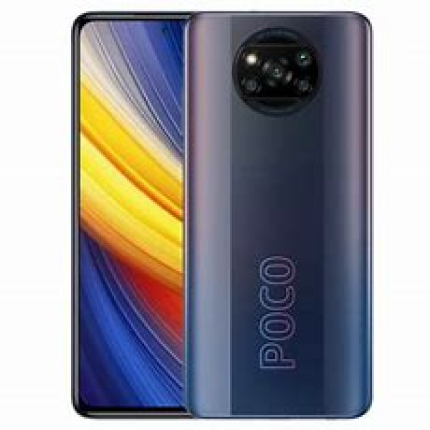
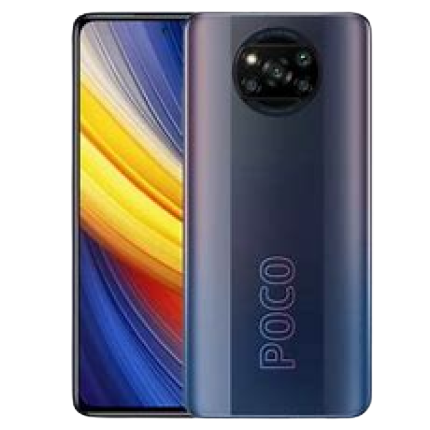
daftar produk

diff --git a/DaftarProduk/produk.html b/DaftarProduk/produk.html
@@ -61,47 +61,47 @@
                     <div class="penawaran-stok">Stok 5</div>
                     <div class="deskripsi">
                         <p>Spesifikasi</p>
-                        <p>Dimensi Tinggi : 165,3mm</p>
-                        <p>Lebar : 78,8 mm Ketebalan : 9,4 mm</p>
-                        <p>Berat : 215 g</p>
+                        <p>Qualcomm Snapdragon 860</p>
+                        <p>RAM : 8 GB</p>
+                        <p>Battery : 5160mAH</p>
                     </div>
                 </div>
             </div>
             <div class="penawaran-list">
-                <img src="../ImageBank/rexus.png" alt="" class="penawaran-image">
+                <img src="../ImageBank/realmext.png" alt="" class="penawaran-image">
                 <div class="penawaran-desc">
-                    <div class="penawaran-product">Rexus Daxa TS1</div>
-                    <div class="penawaran-kategori">Audio</div>
-                    <div class="penawaran-harga">Rp790.000</div>
+                    <div class="penawaran-product">Realme XT</div>
+                    <div class="penawaran-kategori">Handphone</div>
+                    <div class="penawaran-harga">Rp3.099.900</div>
                     <div class="penawaran-discount">
                         <span>50%</span>
-                        <span>Rp1.580.000</span>
+                        <span>Rp6.199.800</span>
                     </div>
                     <div class="penawaran-stok">Stok 10</div>
                     <div class="deskripsi">
-                        <p>Deskripsi Produk :</p>
-                        <p>- Dua koneksi : kabel dan nirkabel. Untuk mode nirkabel.</p>
-                        <p>- 3 Pilihan Equalizer, yaitu Hi-Fi, Bass, dan 3D.</p>
-                        <p>- Rounded RGB LED 8 mode warna yang bisa dihidup-matikan.</p>
+                        <p>Spesifikasi</p>
+                        <p>Qualcomm Snapdragon 712 AIE</p>
+                        <p>RAM : 8 GB</p>
+                        <p>Battery : 4000mAH</p>
                     </div>
                 </div>
             </div>
             <div class="penawaran-list">
-                <img src="../ImageBank/AC.png" alt="" class="penawaran-image">
+                <img src="../ImageBank/redminote10s.png" alt="" class="penawaran-image">
                 <div class="penawaran-desc">
-                    <div class="penawaran-product">AC Portable Arctic</div>
-                    <div class="penawaran-kategori">Alat Pendingin Ruangan</div>
-                    <div class="penawaran-harga">Rp71.900</div>
+                    <div class="penawaran-product">Xiaomi Redmi Note 10S</div>
+                    <div class="penawaran-kategori">Handphone</div>
+                    <div class="penawaran-harga">Rp3.049.000</div>
                     <div class="penawaran-discount">
-                        <span>50%</span>
-                        <span>Rp1.438.000</span>
+                        <span>8%</span>
+                        <span>Rp3.299.000</span>
                     </div>
                     <div class="penawaran-stok">Stok 50</div>
                     <div class="deskripsi">
                         <p>Spesifikasi</p>
-                        <p>6 Square : 14.5 x 16 x 17 cm</p>
-                        <p>3 Kecepatan Kipas Disesuaikan</p>
-                        <p>Kapasitas tangki air : 400-450ml</p>
+                        <p>MediaTek Helio G95</p>
+                        <p>RAM : 8 GB</p>
+                        <p>Battery : 5000mAH</p>
                     </div>
                 </div>
             </div>
@@ -112,48 +112,117 @@
         <h2 class="lainnya">Lainnya</h2>
         <div class="penawaran-lists">
             <div class="penawaran-list">
-                <img src="../ImageBank/xiaomi.png" alt="" class="penawaran-image">
+                <img src="../ImageBank/xiaomi11t.png" alt="" class="penawaran-image">
                 <div class="penawaran-desc">
-                    <div class="penawaran-product">Xiaomi Poco X3 Pro</div>
+                    <div class="penawaran-product">Xiaomi 11T</div>
                     <div class="penawaran-kategori">Handphone</div>
-                    <div class="penawaran-harga">Rp4.059.000</div>
+                    <div class="penawaran-harga">Rp5.999.000</div>
                     <div class="penawaran-discount">
-                        <span>50%</span>
-                        <span>Rp8.118.000</span>
+                        <span>2%</span>
+                        <span>Rp6.099.000</span>
                     </div>
                     <div class="penawaran-stok">Stok 5</div>
                     <div class="deskripsi">
                         <p>Spesifikasi</p>
-                        <p>Dimensi Tinggi : 165,3mm</p>
-                        <p>Lebar : 78,8 mm Ketebalan : 9,4 mm</p>
-                        <p>Berat : 215 g</p>
+                        <p>MediaTek MT6893 Dimensity 1200 5G</p>
+                        <p>RAM : 8 GB</p>
+                        <p>Battery : 5000mAH</p>
                     </div>
                 </div>
             </div>
             <div class="penawaran-list">
-                <img src="../ImageBank/rexus.png" alt="" class="penawaran-image">
+                <img src="../ImageBank/samsungfold.png" alt="" class="penawaran-image">
                 <div class="penawaran-desc">
-                    <div class="penawaran-product">Rexus Daxa TS1</div>
-                    <div class="penawaran-kategori">Audio</div>
-                    <div class="penawaran-harga">Rp790.000</div>
+                    <div class="penawaran-product">Samsung Galaxy Z Fold 3</div>
+                    <div class="penawaran-kategori">Handphone</div>
+                    <div class="penawaran-harga">Rp23.450.000</div>
                     <div class="penawaran-discount">
-                        <span>50%</span>
-                        <span>Rp1.580.000</span>
+                        <span>2%</span>
+                        <span>Rp23.919.000</span>
                     </div>
                     <div class="penawaran-stok">Stok 10</div>
+                    <div class="deskripsi">
+                        <p>Spesifikasi</p>
+                        <p>Qualcomm SM8350 Snapdragon 888 5G</p>
+                        <p>RAM : 12 GB</p>
+                        <p>Battery : 4400mAH</p>
+                    </div>
                 </div>
             </div>
             <div class="penawaran-list">
-                <img src="../ImageBank/AC.png" alt="" class="penawaran-image">
+                <img src="../ImageBank/opporeno.png" alt="" class="penawaran-image">
                 <div class="penawaran-desc">
-                    <div class="penawaran-product">AC Portable Arctic</div>
-                    <div class="penawaran-kategori">Alat Pendingin Ruangan</div>
-                    <div class="penawaran-harga">Rp71.900</div>
+                    <div class="penawaran-product">Oppo Reno 5</div>
+                    <div class="penawaran-kategori">Handphone</div>
+                    <div class="penawaran-harga">Rp4.399.000</div>
                     <div class="penawaran-discount">
-                        <span>50%</span>
-                        <span>Rp1.438.000</span>
+                        <span>12%</span>
+                        <span>Rp4.999.000</span>
                     </div>
                     <div class="penawaran-stok">Stok 50</div>
+                    <div class="deskripsi">
+                        <p>Spesifikasi</p>
+                        <p>Qualcomm 720G</p>
+                        <p>RAM : 8 GB</p>
+                        <p>Battery : 5000mAH</p>
+                    </div>
+                </div>
+            </div>
+            <div class="penawaran-list">
+                <img src="../ImageBank/oppofind.png" alt="" class="penawaran-image">
+                <div class="penawaran-desc">
+                    <div class="penawaran-product">Oppo Find X3 Pro</div>
+                    <div class="penawaran-kategori">Handphone</div>
+                    <div class="penawaran-harga">Rp13.738.000</div>
+                    <div class="penawaran-discount">
+                        <span>14%</span>
+                        <span>Rp15.999.000</span>
+                    </div>
+                    <div class="penawaran-stok">Stok 5</div>
+                    <div class="deskripsi">
+                        <p>Spesifikasi</p>
+                        <p>Qualcomm Snapdragon 888</p>
+                        <p>RAM : 12 GB</p>
+                        <p>Battery : 2X2200mAH</p>
+                    </div>
+                </div>
+            </div>
+            <div class="penawaran-list">
+                <img src="../ImageBank/realmegt.png" alt="" class="penawaran-image">
+                <div class="penawaran-desc">
+                    <div class="penawaran-product">Realme GT Master Edition</div>
+                    <div class="penawaran-kategori">Handphone</div>
+                    <div class="penawaran-harga">Rp4.650.000</div>
+                    <div class="penawaran-discount">
+                        <span>5%</span>
+                        <span>Rp4.882.500</span>
+                    </div>
+                    <div class="penawaran-stok">Stok 10</div>
+                    <div class="deskripsi">
+                        <p>Spesifikasi</p>
+                        <p>Qualcomm SM7325 Snapdragon 778G 5G</p>
+                        <p>RAM : 8 GB</p>
+                        <p>Battery : 4300mAH</p>
+                    </div>
+                </div>
+            </div>
+            <div class="penawaran-list">
+                <img src="../ImageBank/vivov21.png" alt="" class="penawaran-image">
+                <div class="penawaran-desc">
+                    <div class="penawaran-product">Vivo V21</div>
+                    <div class="penawaran-kategori">Handphone</div>
+                    <div class="penawaran-harga">Rp3.615.000</div>
+                    <div class="penawaran-discount">
+                        <span>18%</span>
+                        <span>Rp4.399.000</span>
+                    </div>
+                    <div class="penawaran-stok">Stok 50</div>
+                    <div class="deskripsi">
+                        <p>Spesifikasi</p>
+                        <p>Snapdragon 720G Octa-core 2.3GHz</p>
+                        <p>RAM : 8 GB</p>
+                        <p>Battery : 4000mAH</p>
+                    </div>
                 </div>
             </div>
         </div>

diff --git a/DaftarProduk/produk.css b/DaftarProduk/produk.css
@@ -157,6 +157,11 @@ button{
     margin : 20px auto;
 }
 
+.penawaran-lists img{
+    width : 115px;
+    height: 150px;
+}
+
 .penawaran-list{
     background-color : rgb(239, 239, 239);
     border-radius : 10px;
